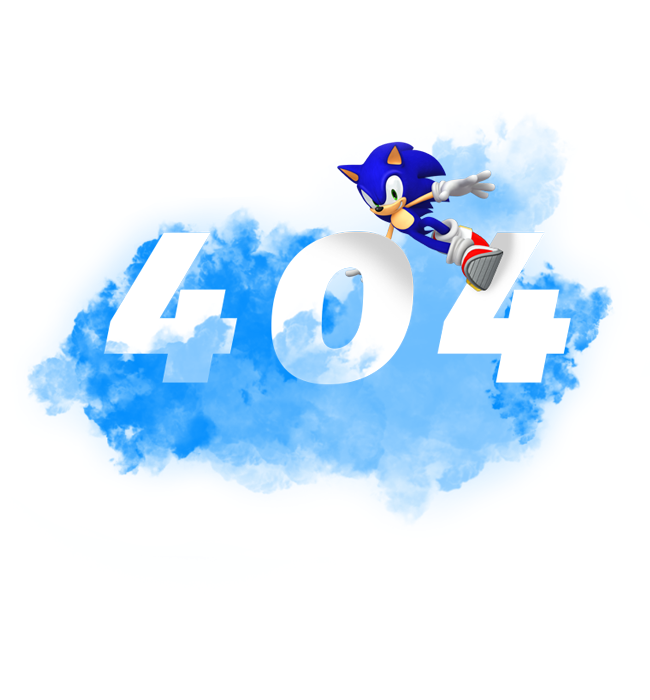
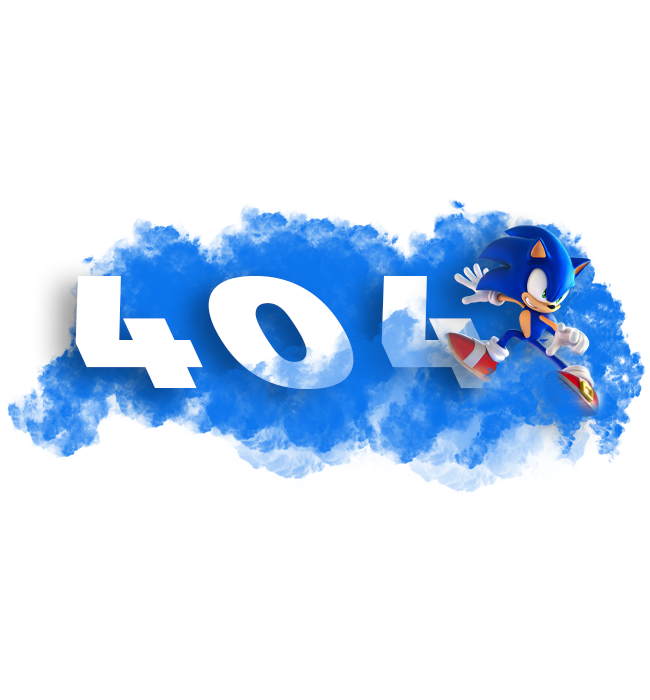
.

diff --git a/configuracoes.php b/configuracoes.php
@@ -8,9 +8,9 @@ $password ="";
 
 $conexao = mysqli_connect ($servername, $username, $password, $database);
 
-//if ($conexao == false) {
-//    include('error-404.php');
-//    die();
-//}
+if ($conexao == false) {
+    include('error-404.php');
+    die();
+}
 
 
